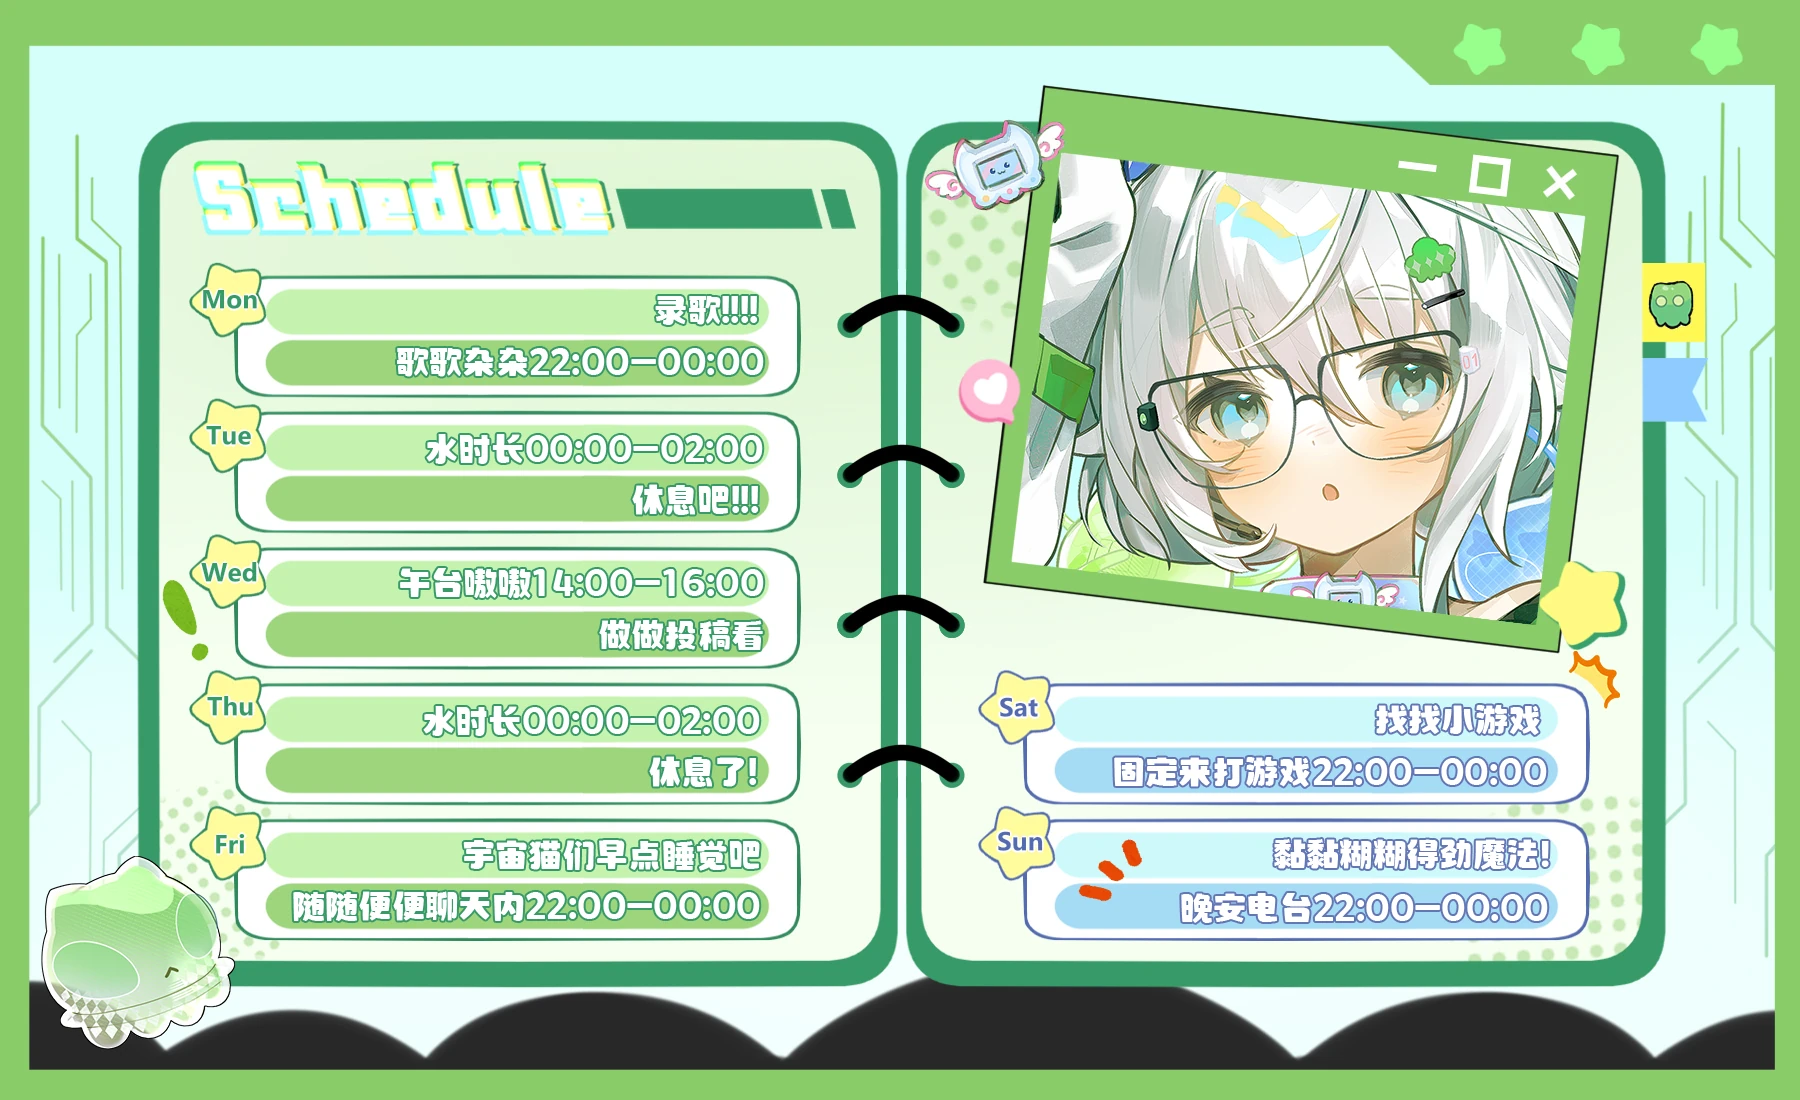
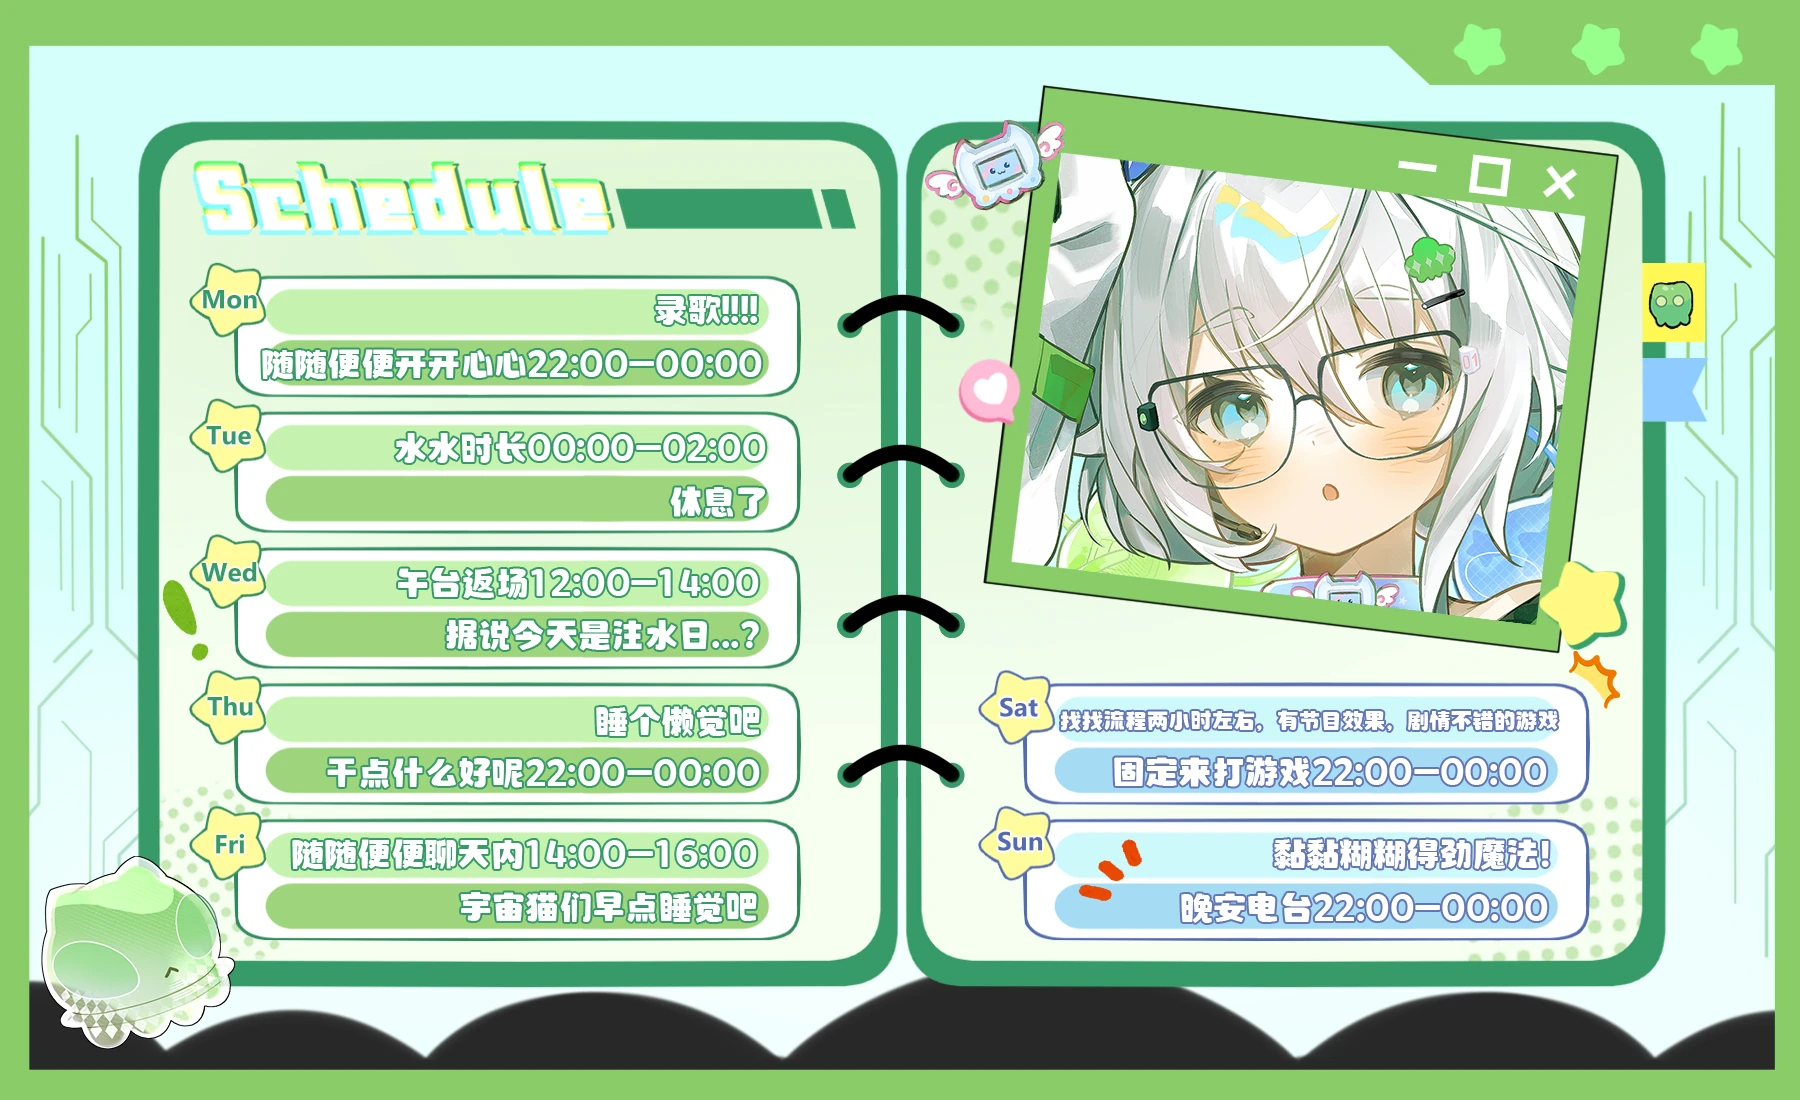
周表更新（2026-10-19 手动触发，WebP 派生版同步生成）

Changed region(s): [[0.1244, 0.3091, 0.4356, 0.8655], [0.5911, 0.6182, 0.8711, 0.68]]

diff --git a/index.html b/index.html
@@ -231,7 +231,7 @@
     <h2><span class="no">QUEST</span>每周计划</h2>
   </div>
   <div class="wk-head reveal">
-    <span class="wk-status"><span class="dot" aria-hidden="true"></span><span id="planWhen">更新于 <span class="wk-date">2026年10月12日</span></span></span>
+    <span class="wk-status"><span class="dot" aria-hidden="true"></span><span id="planWhen">更新于 <span class="wk-date">2026年10月19日</span></span></span>
     <h2 class="wk-title">本周计划</h2>
     <p class="wk-sub">周表内容来自主页置顶动态的第一张图，每周自动检查一次，置顶动态更新后自动抓取替换。</p>
     <ul class="wk-list">
@@ -255,7 +255,7 @@
                别手工把它改成 <picture> —— 浏览器的 <source> 优先级高于 <img src>，
                会把下面那套「悬停换高清图」的状态机打死（实测改 img.src 完全失效）。
              同时把上方「更新于 X年X月X日」改成抓取/上传那天的日期 -->
-        <img id="weekImg" src="images/schedule-week.webp?v=202610122205" alt="本周周表照片" referrerpolicy="no-referrer" loading="lazy" decoding="async">
+        <img id="weekImg" src="images/schedule-week.webp?v=202610192021" alt="本周周表照片" referrerpolicy="no-referrer" loading="lazy" decoding="async">
         <div class="wk-q" id="weekFail" hidden>？</div>
       </div>
     </div>
@@ -1161,8 +1161,8 @@
     var KEY  = "chu2u-week-v2";          /* 远程抓取缓存 {id, img, ts, week} */
     var DKEY = "chu2u-week-drop";        /* 拖入图片缓存 {img, ts} */
     var UID = "2138961136";
-    var LOCAL = "images/schedule-week.webp?v=202610122205";      /* 静止显示版（1140px 素材按 570px 显示）；?v= 由维护脚本换图时自动改日期，绕过浏览器缓存 */
-    var FULL  = "images/schedule-week-full.webp?v=202610122205"; /* 无损原图（悬停与单击大图共用） */
+    var LOCAL = "images/schedule-week.webp?v=202610192021";      /* 静止显示版（1140px 素材按 570px 显示）；?v= 由维护脚本换图时自动改日期，绕过浏览器缓存 */
+    var FULL  = "images/schedule-week-full.webp?v=202610192021"; /* 无损原图（悬停与单击大图共用） */
     var when    = document.getElementById("planWhen");
     var img     = document.getElementById("weekImg");
     var fail    = document.getElementById("weekFail");
